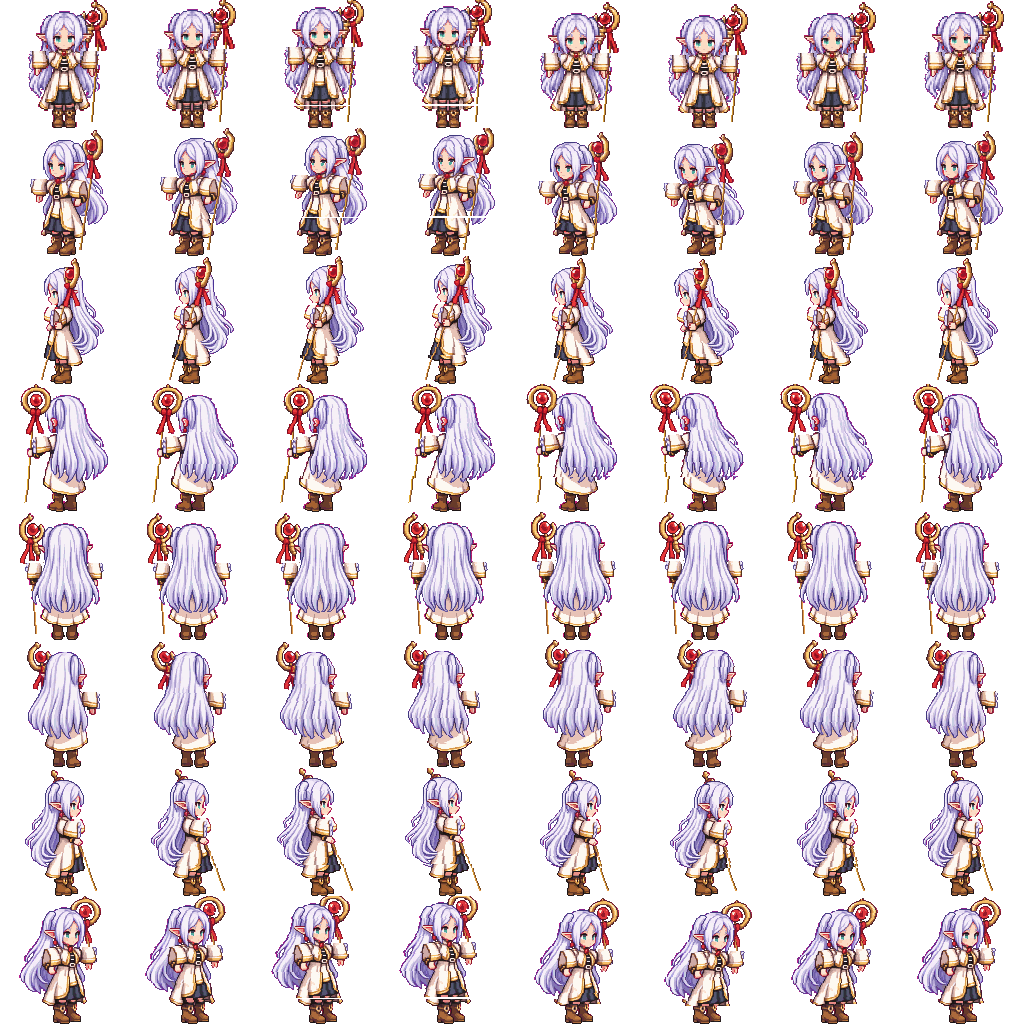
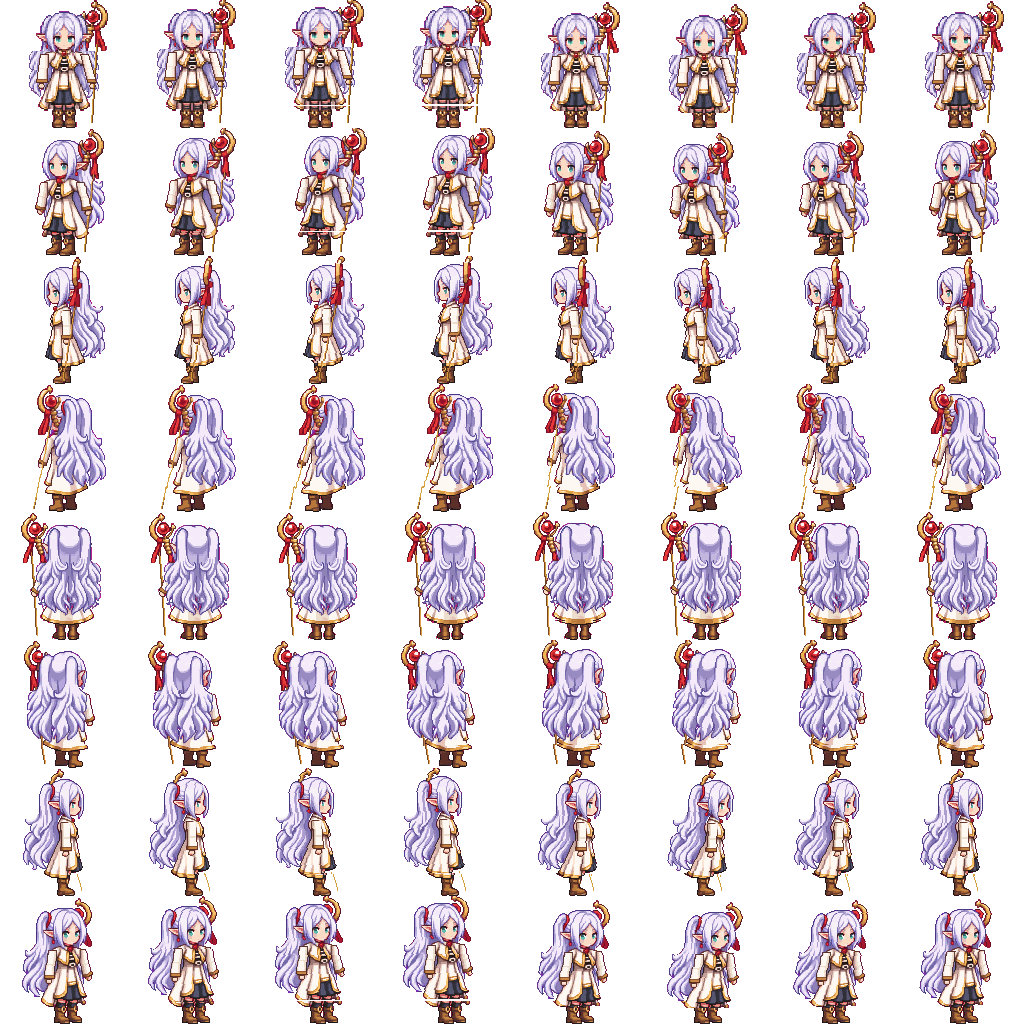
Character stands with arms down instead of holding them out
The previous 8-direction sprite came from a reference whose rotated arm
blocks still sat as wide boxes at shoulder height, so every direction
kept the arms held out. The new Oriverse sprite elf_mage_rest is built
from a reference with slim sleeves hanging along the coat and the staff
in the right hand; idle, walk and attack sheets are regenerated from it
and the staff gem positions updated.

Claude-Session: https://claude.ai/code/session_01EoAgD4nUuveX489aYfu2wP

diff --git a/src/player.js b/src/player.js
@@ -1,7 +1,7 @@
 // The elf mage: WASD movement over the courtyard, 8-direction sprite animation (idle, walk,
 // attack), hover while casting.
 //
-// The idle sheet holds the eight directions of the Oriverse sprite `elf_mage_walk`; walk and
+// The idle sheet holds the eight directions of the Oriverse sprite `elf_mage_rest`; walk and
 // attack are built from them by tools/animate_sprite.py. Every sheet has one row per
 // direction in Oriverse order (front, then clockwise seen from above), one 128 px column per
 // frame, pivot at the bottom centre of each cell.
@@ -23,7 +23,7 @@ const HOVER_RAMP = 40 / 60;
 
 export const DIRECTIONS = ["south", "south-west", "west", "north-west", "north", "north-east", "east", "south-east"];
 // staff gem in each direction's cell (sprite px), printed by tools/animate_sprite.py
-const GEMS = [[93, 32], [88, 34], [69, 36], [36, 31], [30, 32], [41, 27], [53, 5], [81, 26]];
+const GEMS = [[93, 32], [87, 30], [73, 36], [48, 30], [33, 31], [35, 28], [55, 28], [69, 21]];
 
 // World direction (x = +X up the screen, y = +Y screen left) -> sheet row.
 export function directionIndex(x, y) {

diff --git a/README.md b/README.md
@@ -40,8 +40,8 @@ python3 -m http.server 8000
 
 ## ตัวละคร
 
-- `assets/mage_idle.png` คือ 8 ทิศของสไปรต์ Oriverse `Ori.sprite.@taoisaman.elf_mage_walk#1`
-  สร้างจากภาพอ้างอิงท่ายืนปล่อยแขน (`oriverse/frieren/elf_mage_relaxed.png` ใน the-hero-fighter ซึ่งแก้จาก character sheet ที่เป็นท่า T-pose)
+- `assets/mage_idle.png` คือ 8 ทิศของสไปรต์ Oriverse `Ori.sprite.@taoisaman.elf_mage_rest#1`
+  สร้างจากภาพอ้างอิงท่ายืนแขนแนบลำตัว (`oriverse/frieren/elf_mage_relaxed.png` ใน the-hero-fighter ซึ่งวาดแขนใหม่จาก character sheet ที่เป็นท่า T-pose)
   ดึงเฟรมออกจากภาพ preview ของ Oriverse ด้วย
   ```sh
   python3 tools/sprite_cells.py assets/mage_idle.png south.png south-west.png west.png north-west.png north.png north-east.png east.png south-east.png
